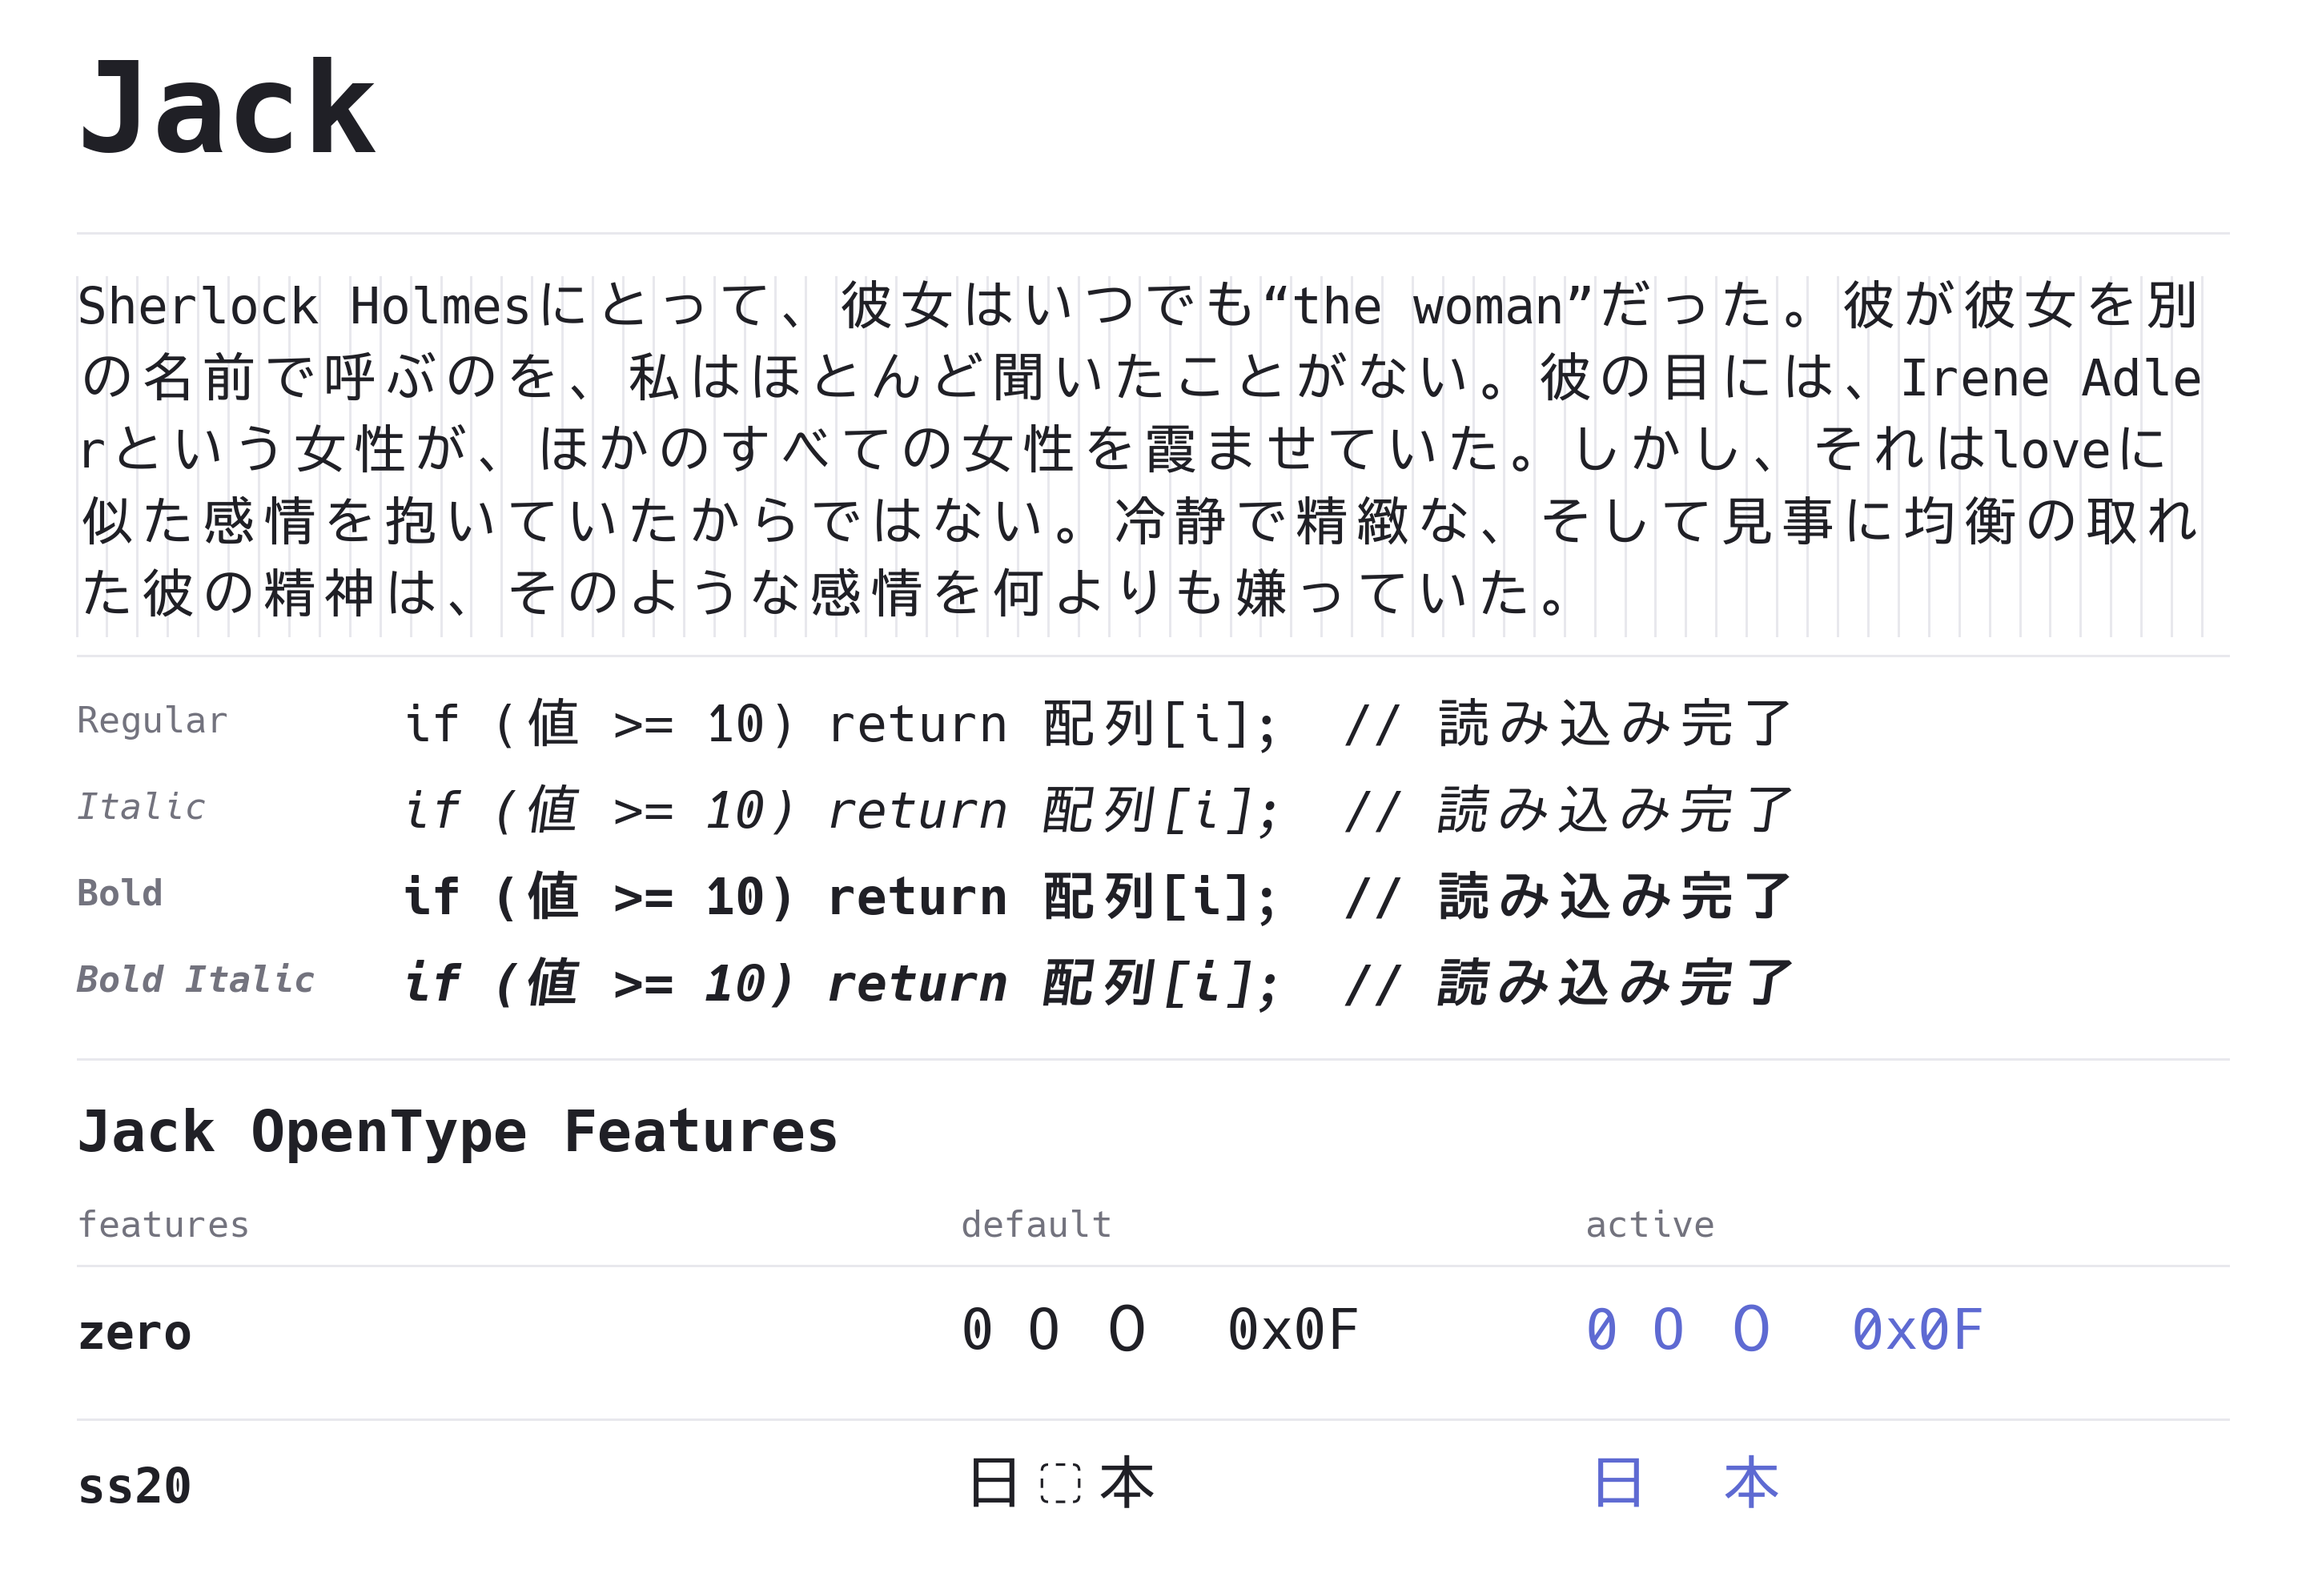
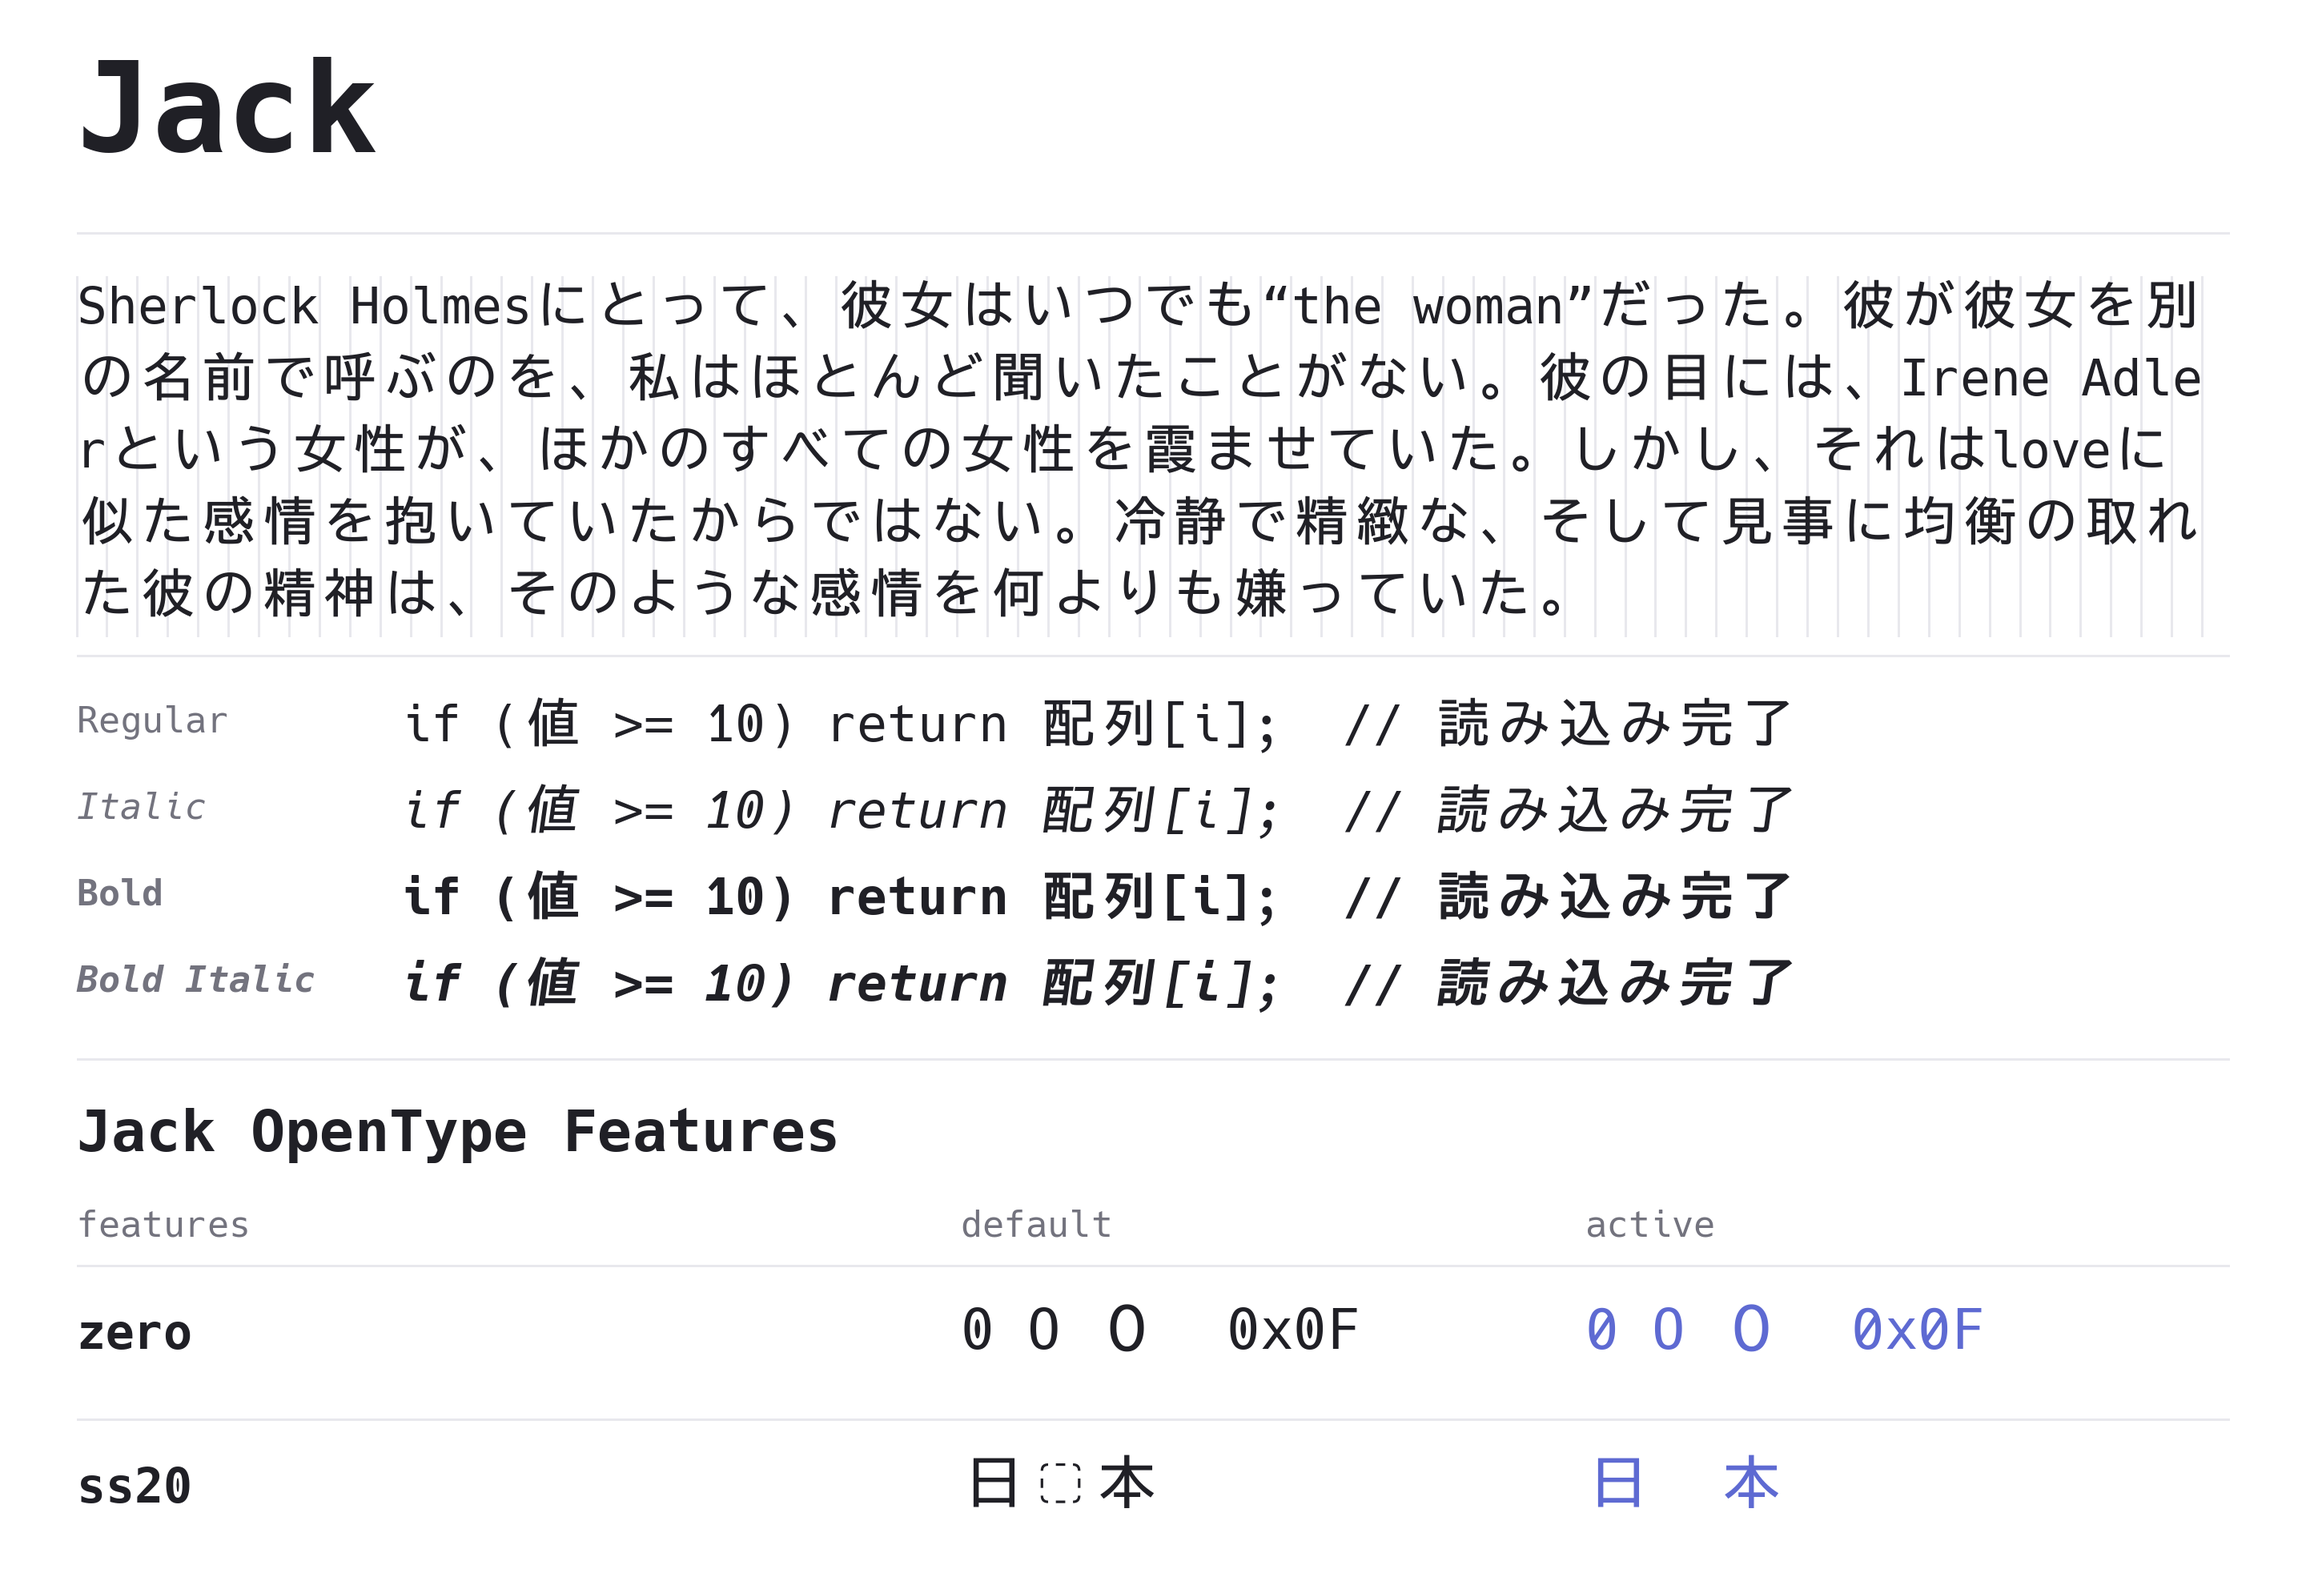
Raise Japanese weight strength and release 0.1.2
- Set regular, bold and italic strength to 24
- Show the Japanese weight before/after in the README

diff --git a/README.md b/README.md
@@ -11,6 +11,8 @@ Jackは、HackとBIZ UDゴシックを組み合わせたプログラミング用
 - Nerd Fontsのアイコンに対応しています。
 - OpenTypeのzeroでゼロを斜線付きに、ss20で全角スペースを非表示に切り替えられます。
 
+![BIZ UDゴシック原寸（Before）とJackの日本語ウェイト（After）を並べた比較](.github/images/weight.png)
+
 ## Showcase
 
 ![READMEのMarkdownをJackで表示した画像](.github/images/readme.png)
